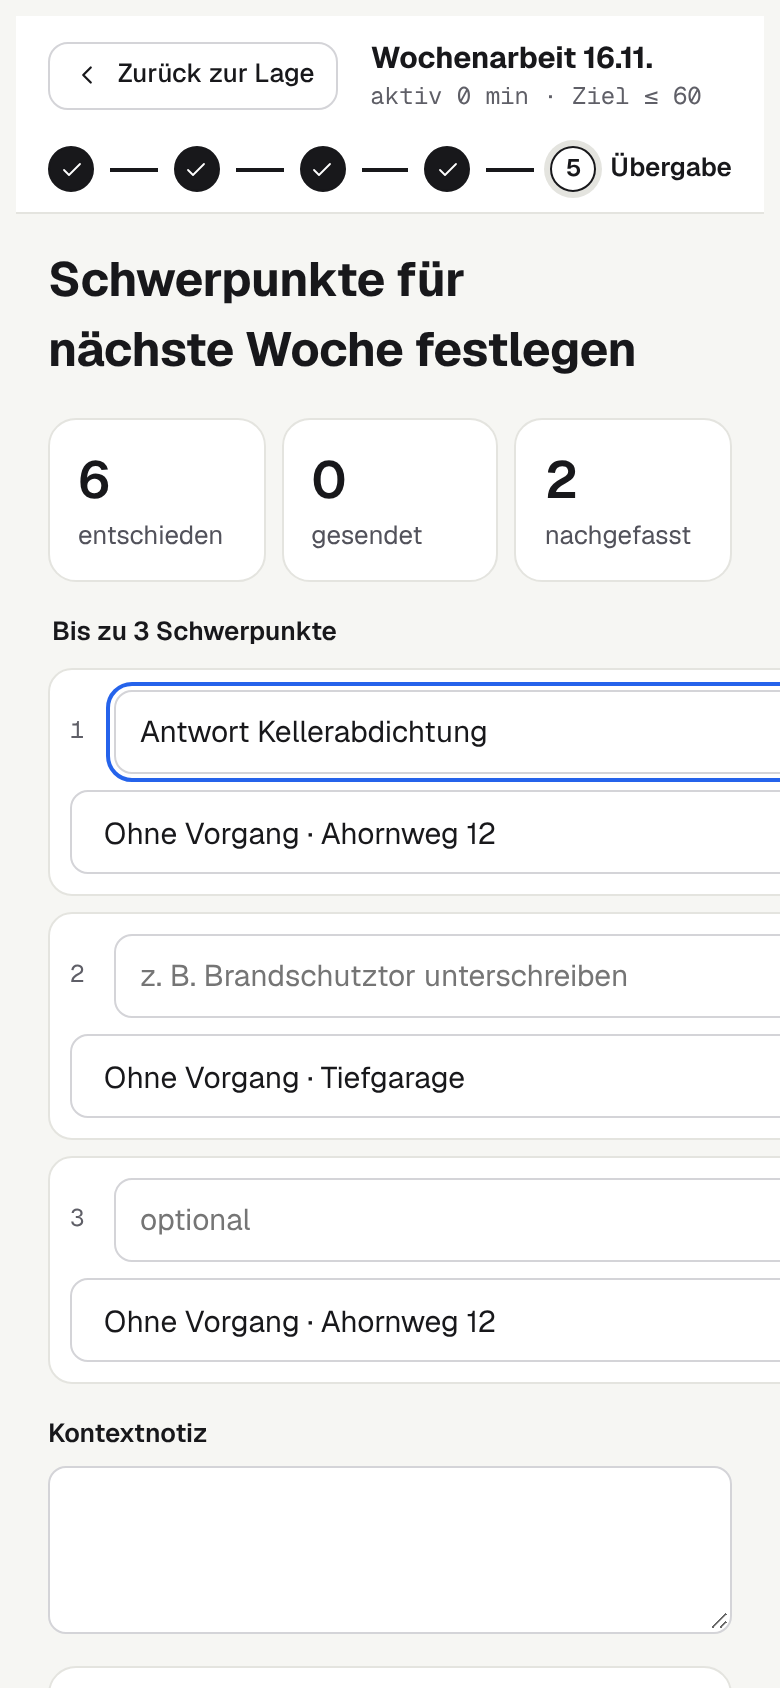
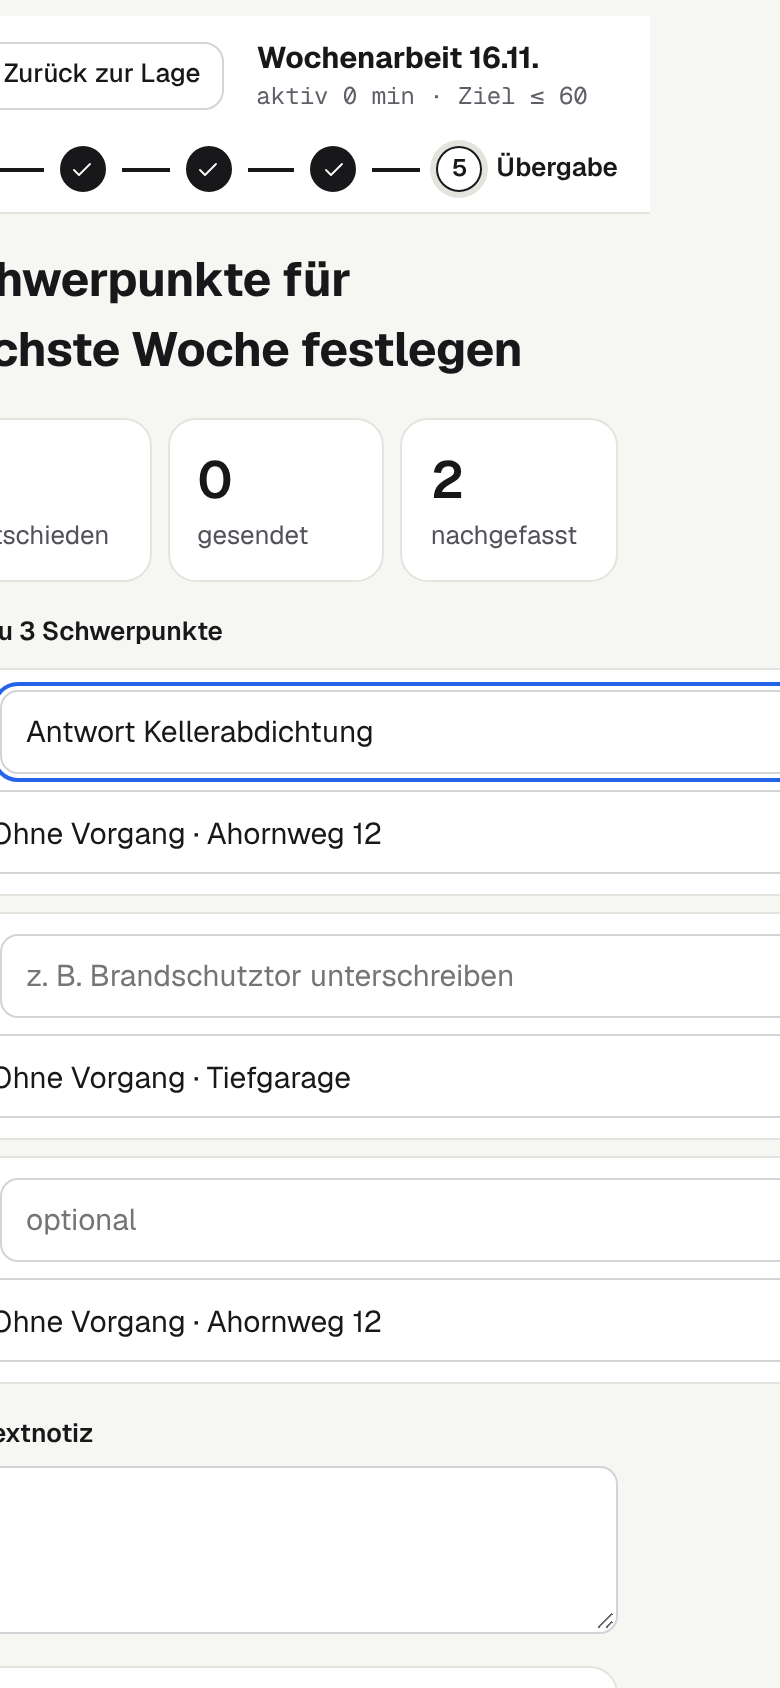
docs: Zwischenstand Mockups und Prototyp
Claude-Session: https://claude.ai/code/session_012v81oX63sFYA73iKSt4UED

diff --git a/docs/design/prototype/WEG-Manager-Prototyp.html b/docs/design/prototype/WEG-Manager-Prototyp.html
@@ -722,7 +722,7 @@ function wUeber(){
  const nh=S.nh;
  return '<div class="wmain" style="max-width:760px"><h1 style="font-size:24px">Schwerpunkte für nächste Woche festlegen</h1>'+
  '<div style="display:grid;grid-template-columns:repeat(3,minmax(0,1fr));gap:8px">'+[[dec,'entschieden'],[sent,'gesendet'],[nach,'nachgefasst']].map(x=>'<div class="card" style="padding:12px 14px"><div style="font-size:26px;font-weight:600">'+x[0]+'</div><div class="muted" style="font-size:13px">'+x[1]+'</div></div>').join('')+'</div>'+
- '<fieldset style="border:0;margin:0;padding:0;display:flex;flex-direction:column;gap:8px"><legend class="fl" style="font-size:13px;font-weight:600;margin-bottom:8px">Bis zu 3 Schwerpunkte</legend>'+
+ '<fieldset style="border:0;margin:0;padding:0;min-width:0;display:flex;flex-direction:column;gap:8px"><legend class="fl" style="font-size:13px;font-weight:600;margin-bottom:8px">Bis zu 3 Schwerpunkte</legend>'+
  [0,1,2].map(i=>'<div style="display:flex;flex-wrap:wrap;gap:8px;align-items:center;padding:10px;border:1px solid var(--line);border-radius:12px;background:var(--surface)"><span class="pid" style="width:14px">'+(i+1)+'</span><input class="inp" style="flex:1 1 260px;min-width:0" aria-label="Schwerpunkt '+(i+1)+'" data-act-input="nhS" data-i="'+i+'" value="'+esc(nh.s[i])+'" placeholder="'+['z. B. Antwort Kellerabdichtung bis 30.11.','z. B. Brandschutztor unterschreiben','optional'][i]+'"><select class="inp" style="flex:1 1 260px;width:auto;min-width:0;max-width:100%" aria-label="Vorgang zu Schwerpunkt '+(i+1)+'" data-act-change="nhP" data-i="'+i+'">'+['AW','TG'].map(c=>'<option value="c:'+c+'"'+(!nh.p[i]&&nh.c[i]===c?' selected':'')+'>Ohne Vorgang · '+COMM[c].short+'</option>').join('')+['AW','TG'].map(c=>'<optgroup label="'+COMM[c].short+'">'+Object.keys(S.matters).filter(id=>P(id).c===c).map(id=>'<option value="'+id+'"'+(nh.p[i]===id?' selected':'')+'>'+id+' · '+esc(P(id).title)+'</option>').join('')+'</optgroup>').join('')+'</select></div>').join('')+'</fieldset>'+
  '<div class="field"><label for="nhn">Kontextnotiz</label><textarea class="inp" id="nhn" data-act-input="nhN" rows="2">'+esc(nh.note)+'</textarea></div>'+
  '<div class="card" style="display:flex;flex-wrap:wrap;align-items:center;gap:12px;padding:12px 14px">'+ic('clock')+'<span style="flex:1 1 180px"><b>'+mins()+' min aktiv</b><br><span class="muted" style="font-size:13px">plus Doppelpflege außerhalb</span></span><label style="display:flex;gap:6px;align-items:center"><input class="inp mono" type="number" min="0" style="width:80px" aria-label="Zusätzliche Minuten" data-act-input="nhX" value="'+nh.extra+'">min</label></div>'+
